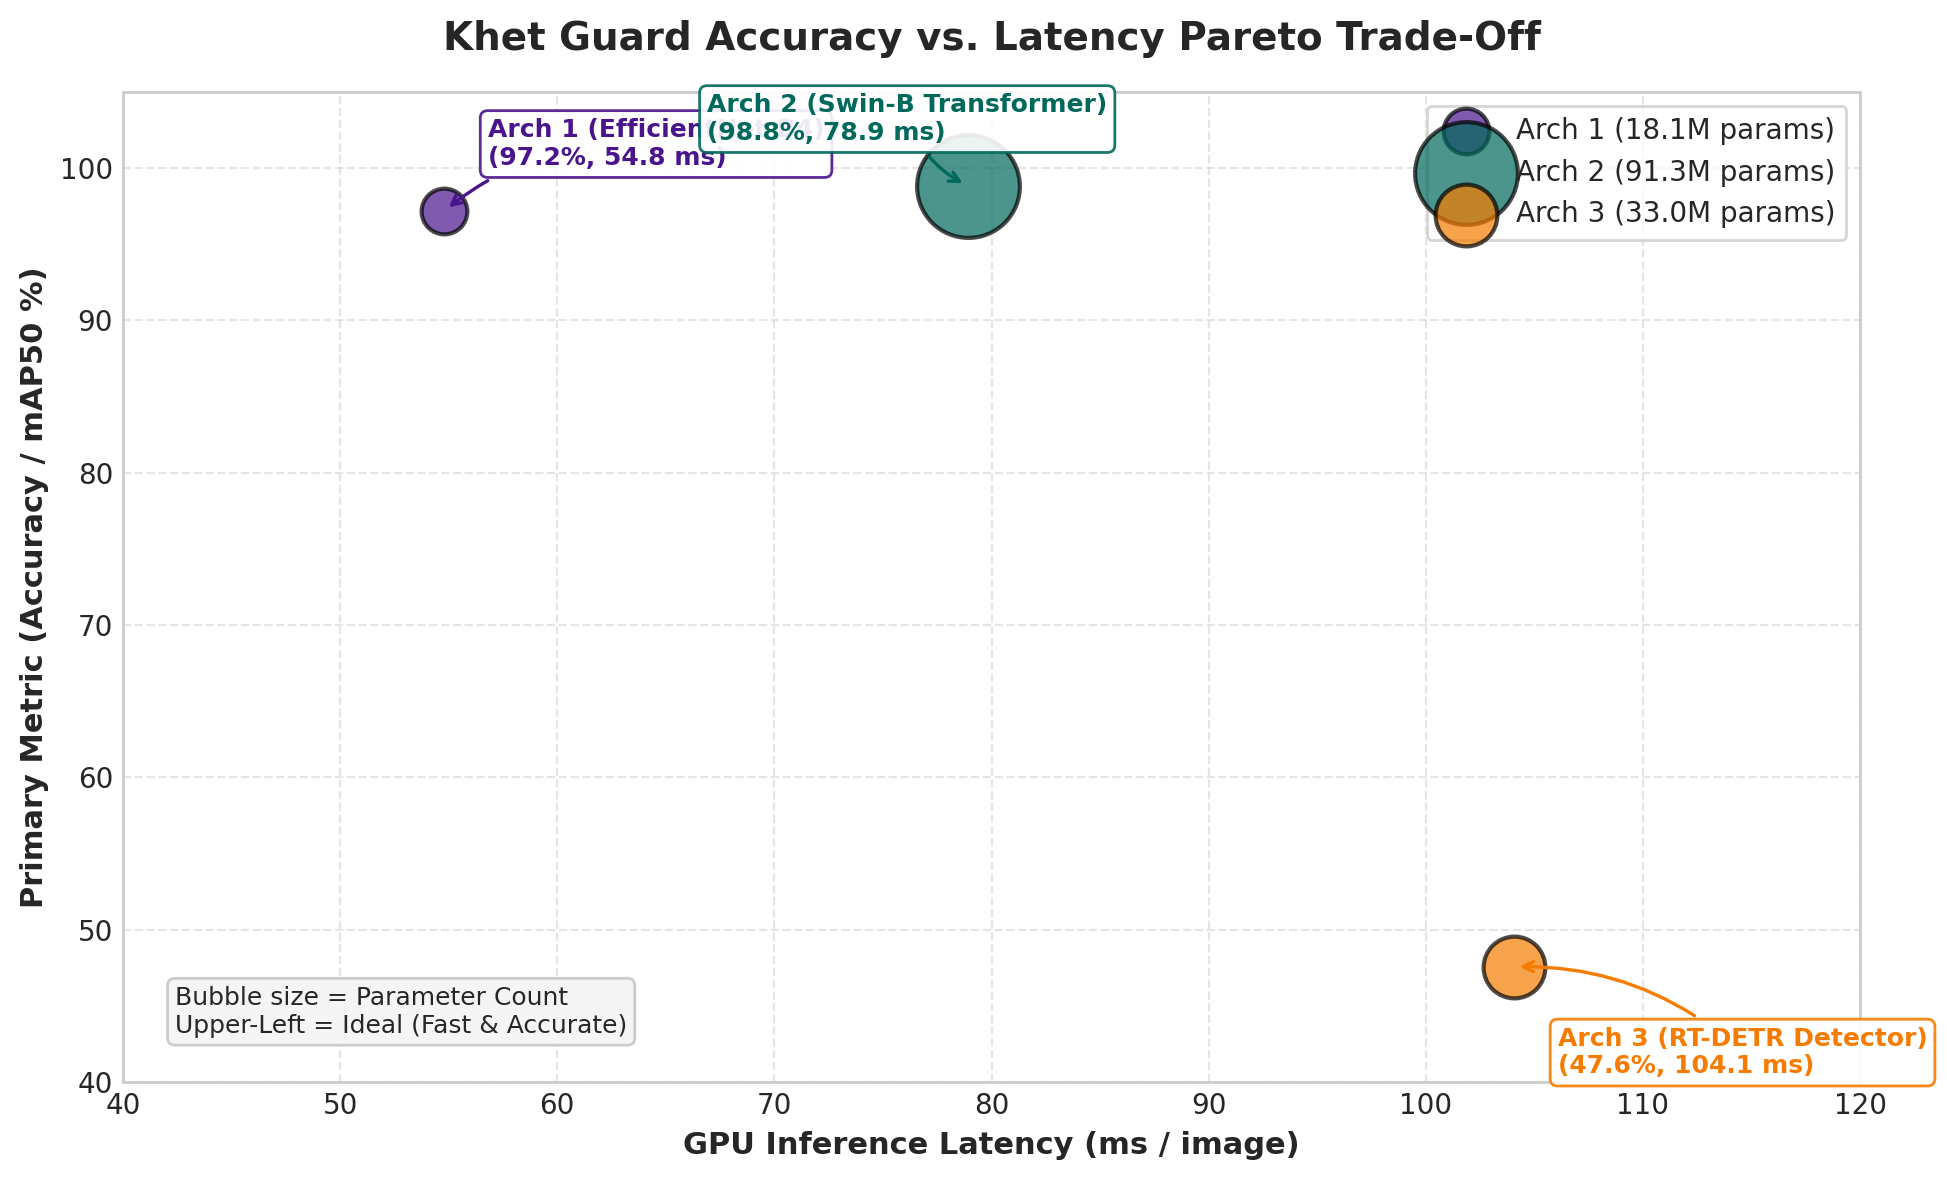
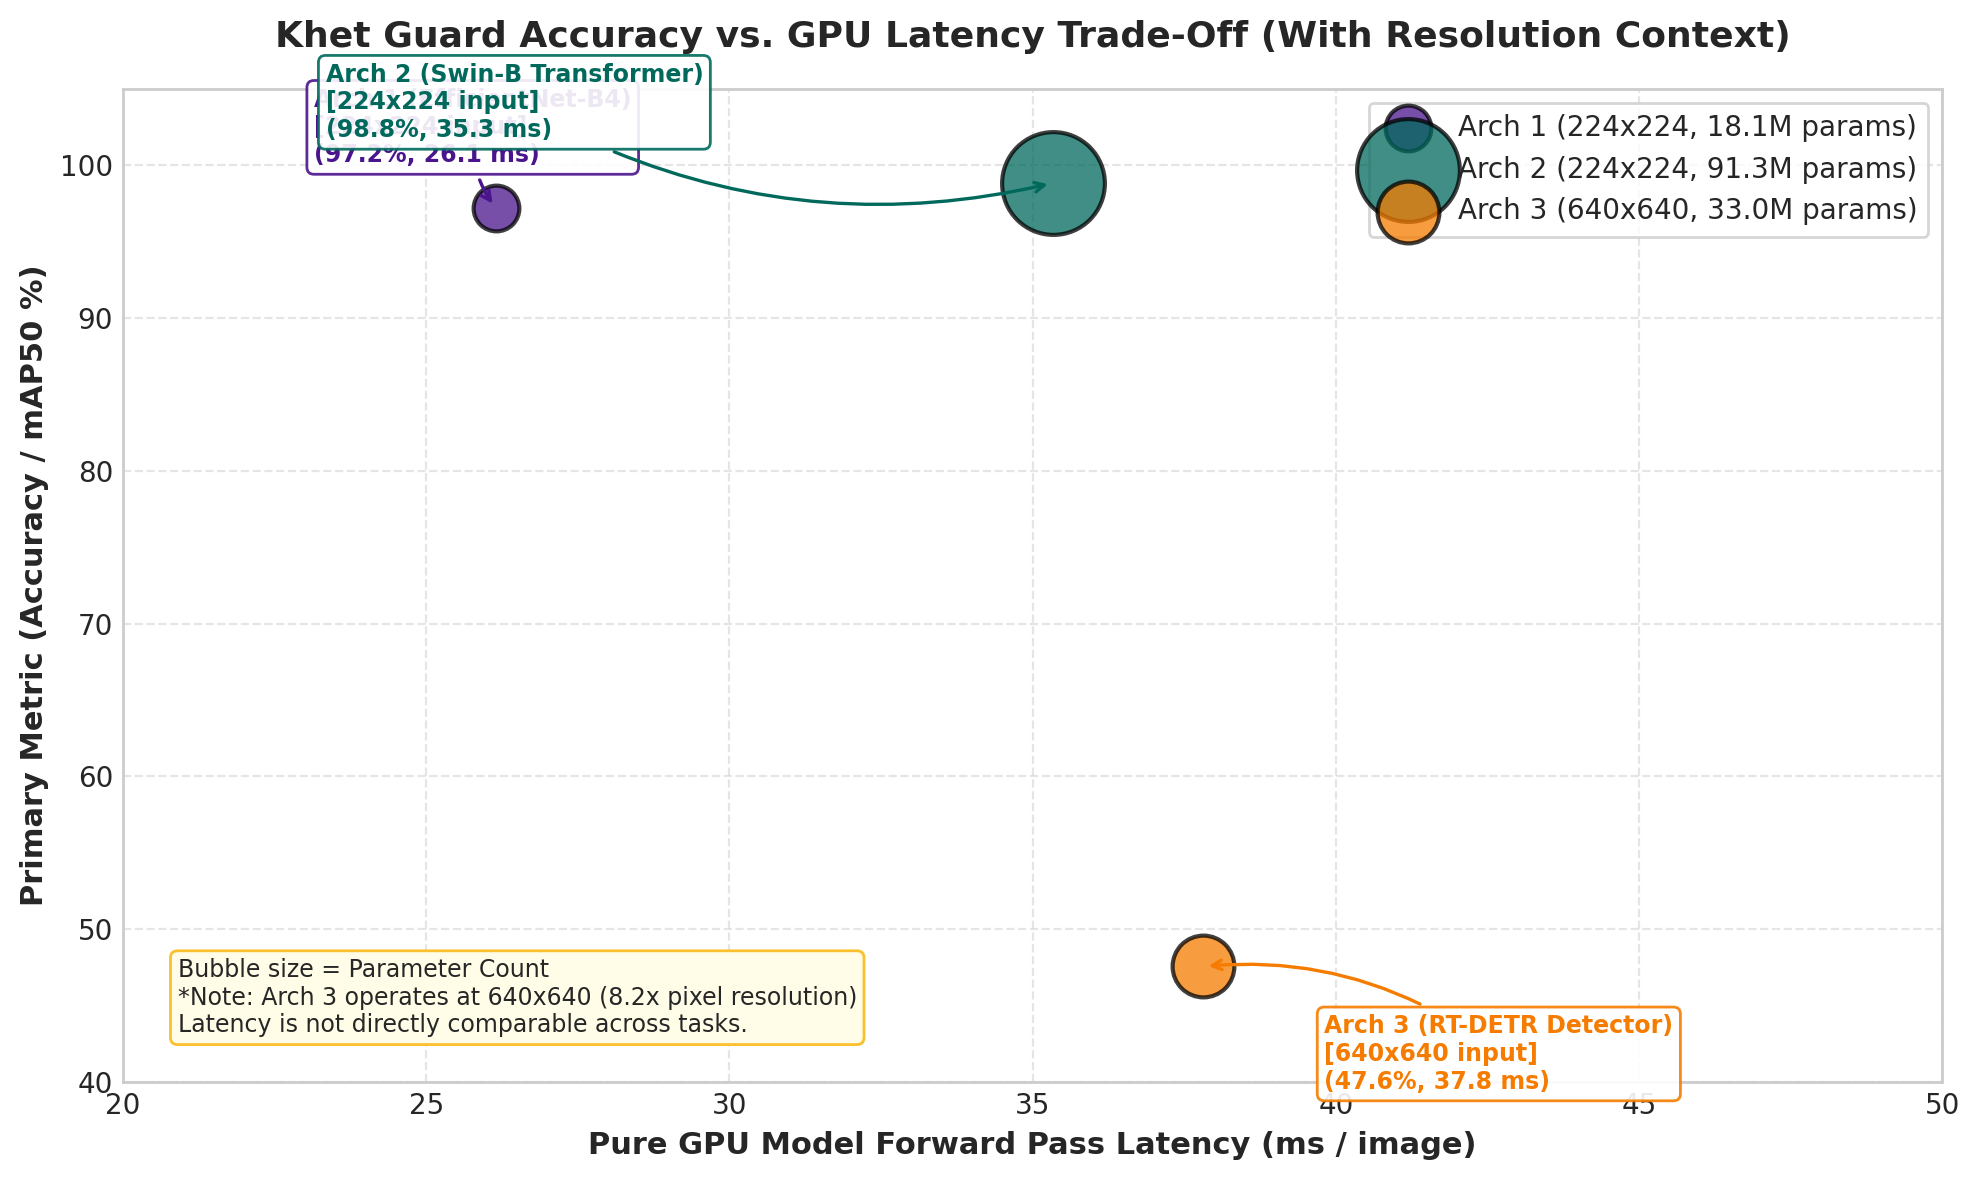
fix(benchmark): refine GPU latency measurements with synchronized CUDA forward passes, add resolution context (224x224 vs 640x640), and update comparison charts

diff --git a/generate_comparison_charts.py b/generate_comparison_charts.py
@@ -1,8 +1,8 @@
 """
-Generate Architectural Comparison Charts for Khet Guard Report
-----------------------------------------------------------------
+Generate Architectural Comparison Charts for Khet Guard Report (Corrected & Refined)
+--------------------------------------------------------------------------------------
 1. model_comparison_metrics.png: Grouped bar chart comparing Primary Metric & Macro-F1.
-2. accuracy_vs_latency_tradeoff.png: Scatter plot of Accuracy/mAP vs. GPU Latency with parameter bubbles.
+2. accuracy_vs_latency_tradeoff.png: Scatter plot of Accuracy/mAP vs. GPU Latency with resolution & param labels.
 
 Output directory: model/exports/model_comparison_charts/
 """
@@ -20,7 +20,7 @@ plt.rcParams["font.size"] = 10
 out_dir = Path("model/exports/model_comparison_charts")
 out_dir.mkdir(parents=True, exist_ok=True)
 
-# Data from live benchmarks & evaluation metrics
+# Data from rigorous synchronized benchmarks
 architectures = ["Arch 1\n(EfficientNet-B4)", "Arch 2\n(Swin-B Transformer)", "Arch 3\n(RT-DETR Detector)"]
 
 # Primary Metrics (Accuracy % for Arch 1 & 2; mAP50 % for Arch 3)
@@ -31,13 +31,13 @@ primary_labels = ["97.2% Acc", "98.8% Acc", "47.6% mAP50"]
 macro_f1 = [0.9712, 0.9881, 0.0]  # 0.0 for Arch 3 (N/A)
 f1_labels = ["0.971 F1", "0.988 F1", "N/A (Detection)"]
 
-# Latency (GPU ms) & Parameters (M)
-gpu_latencies = [54.80, 78.90, 104.07]  # ms
-param_counts = [18.06, 91.28, 32.97]    # Millions
+# Rigorous GPU Pure Model Latencies (ms) & Resolution/Params
+gpu_latencies = [26.15, 35.34, 37.81]  # Pure GPU forward pass (ms)
+param_counts = [18.06, 91.28, 32.97]   # Millions
+resolutions = ["224x224", "224x224", "640x640"]
 
 # Colors matching project palette
 purple_dark = "#4a148c"
-purple_light = "#7b1fa2"
 teal_accent = "#00897b"
 amber_accent = "#f57c00"
 
@@ -94,43 +94,43 @@ print(f"[OK] Saved Chart 1: {chart1_path}")
 
 
 # ==============================================================================
-# Chart 2: Accuracy / Primary Metric vs. GPU Latency Scatter Plot
+# Chart 2: Accuracy / Primary Metric vs. GPU Latency Scatter Plot (Framed with Resolution Context)
 # ==============================================================================
 fig, ax = plt.subplots(figsize=(10, 6), dpi=200)
 
 colors = [purple_dark, "#00695c", amber_accent]
 markers = ["o", "s", "^"]
-bubble_sizes = [p * 15 for p in param_counts]  # Size proportional to params
+bubble_sizes = [p * 15 for p in param_counts]
 
-for i, (lat, met, name, params, c, m, size) in enumerate(zip(gpu_latencies, primary_metrics, architectures, param_counts, colors, markers, bubble_sizes)):
-    ax.scatter(lat, met, s=size, color=c, alpha=0.7, edgecolors="black", linewidth=1.5, label=f"{name.splitlines()[0]} ({params:.1f}M params)", zorder=3)
+for i, (lat, met, name, params, res, c, m, size) in enumerate(zip(gpu_latencies, primary_metrics, architectures, param_counts, resolutions, colors, markers, bubble_sizes)):
+    ax.scatter(lat, met, s=size, color=c, alpha=0.75, edgecolors="black", linewidth=1.5, label=f"{name.splitlines()[0]} ({res}, {params:.1f}M params)", zorder=3)
     
     # Label placement offsets
-    offset_y = 3 if i != 2 else -7
-    offset_x = 2 if i == 0 else (-12 if i == 1 else 2)
+    offset_y = 3 if i != 2 else -8
+    offset_x = -3 if i == 0 else (-12 if i == 1 else 2)
     
     ax.annotate(
-        f"{name.replace(chr(10), ' ')}\n({met:.1f}%, {lat:.1f} ms)",
+        f"{name.replace(chr(10), ' ')}\n[{res} input]\n({met:.1f}%, {lat:.1f} ms)",
         xy=(lat, met),
         xytext=(lat + offset_x, met + offset_y),
-        fontsize=9,
+        fontsize=8.5,
         fontweight="bold",
         color=c,
         bbox=dict(boxstyle="round,pad=0.3", fc="white", ec=c, lw=1, alpha=0.9),
         arrowprops=dict(arrowstyle="->", connectionstyle="arc3,rad=0.2", color=c, lw=1.2)
     )
 
-ax.set_xlabel("GPU Inference Latency (ms / image)", fontsize=11, fontweight="bold")
+ax.set_xlabel("Pure GPU Model Forward Pass Latency (ms / image)", fontsize=11, fontweight="bold")
 ax.set_ylabel("Primary Metric (Accuracy / mAP50 %)", fontsize=11, fontweight="bold")
-ax.set_title("Khet Guard Accuracy vs. Latency Pareto Trade-Off", fontsize=14, fontweight="bold", pad=15)
+ax.set_title("Khet Guard Accuracy vs. GPU Latency Trade-Off (With Resolution Context)", fontsize=13, fontweight="bold", pad=15)
 
-ax.set_xlim(40, 120)
+ax.set_xlim(20, 50)
 ax.set_ylim(40, 105)
 ax.grid(True, linestyle="--", alpha=0.5)
 
-# Annotation box explaining Pareto frontier
-ax.text(0.03, 0.05, "Bubble size = Parameter Count\nUpper-Left = Ideal (Fast & Accurate)",
-        transform=ax.transAxes, fontsize=9, bbox=dict(boxstyle="round", fc="#f5f5f5", ec="#cccccc"))
+# Annotation box explaining resolution difference
+ax.text(0.03, 0.05, "Bubble size = Parameter Count\n*Note: Arch 3 operates at 640x640 (8.2x pixel resolution)\nLatency is not directly comparable across tasks.",
+        transform=ax.transAxes, fontsize=8.5, bbox=dict(boxstyle="round", fc="#fffde7", ec="#fbc02d", lw=1))
 
 ax.legend(loc="upper right", frameon=True, facecolor="white")
 
